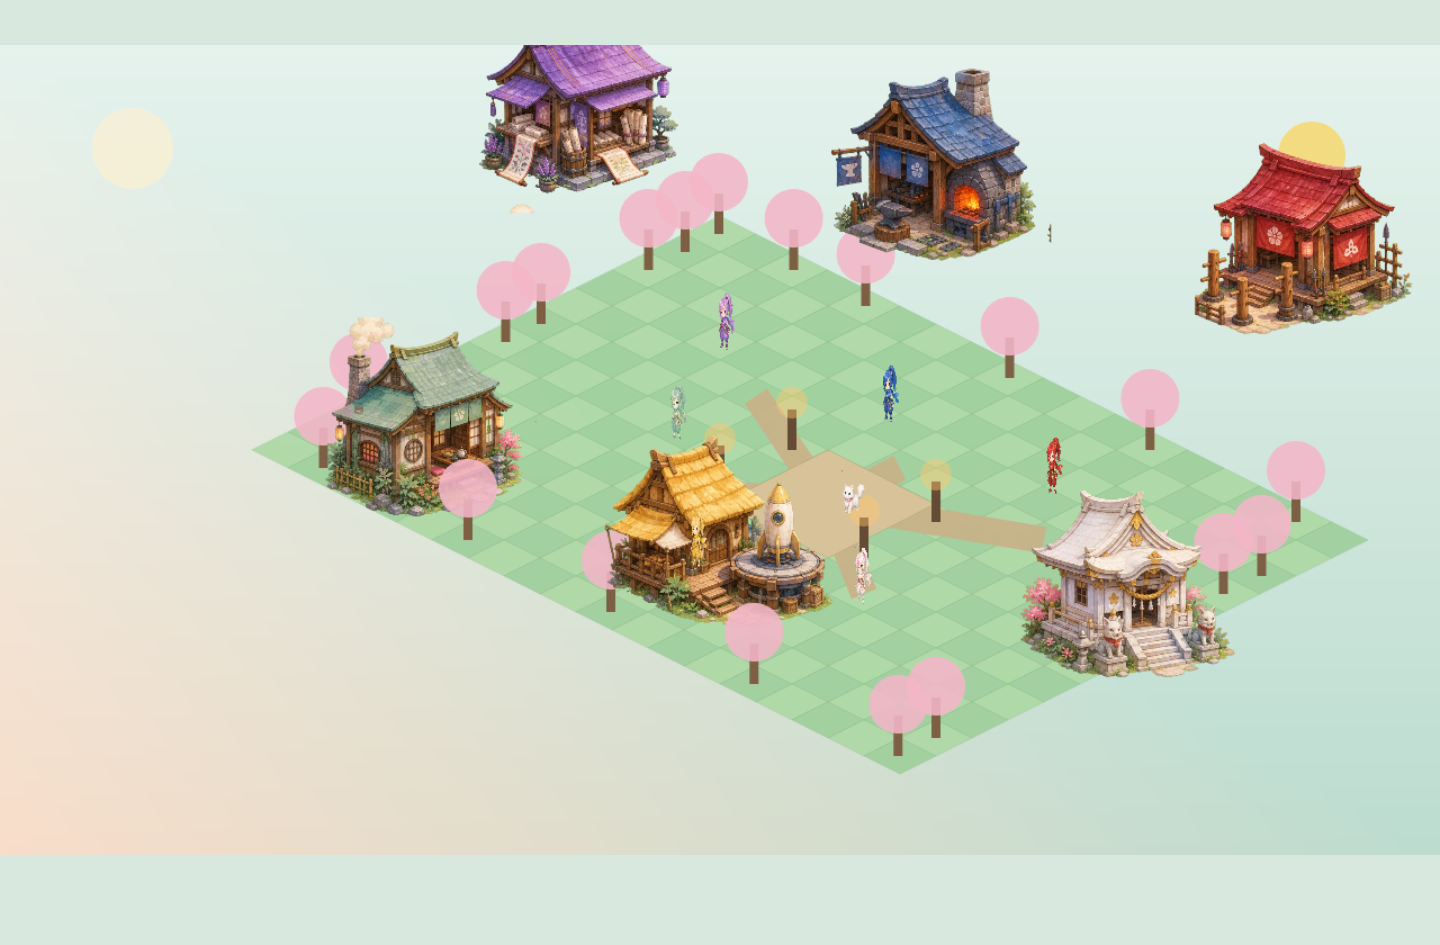
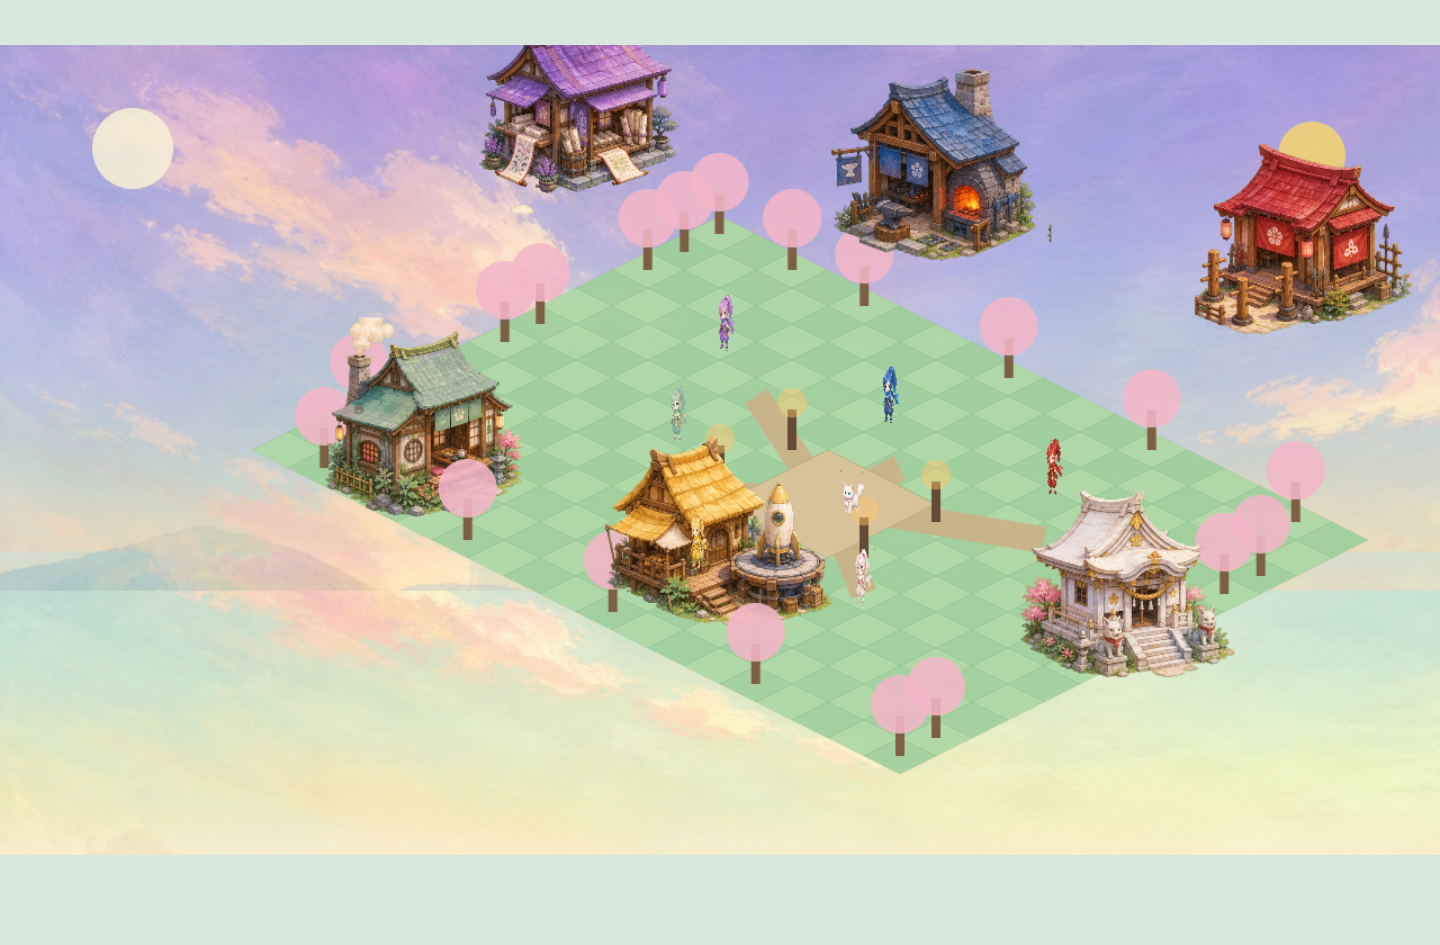
feat(village): add multi-layer parallax background and style anchor

diff --git a/public/js/village/scenes/VillageScene.js b/public/js/village/scenes/VillageScene.js
@@ -15,6 +15,7 @@ export class VillageScene extends Phaser.Scene {
     this.runLoop = { activeCount: 0, queuedCount: 0 };
     this.workerStatus = null;
     this.bridgeStatus = "connecting";
+    this.parallaxLayers = [];
   }
 
   create() {
@@ -33,13 +34,11 @@ export class VillageScene extends Phaser.Scene {
     this.dialogue.update();
     this.statusText?.setText(this.statusLabel());
     this.receiptText?.setText(this.receiptLabel());
+    this.updateParallaxLayers();
   }
 
   drawWorld() {
-    const sky = this.add.graphics().setDepth(-100);
-    sky.fillGradientStyle(0xe5f2ed, 0xe5f2ed, 0xf8ddc9, 0xbcdccf, 1);
-    sky.fillRect(0, 0, 1280, 720);
-
+    this.createParallaxBackground();
     this.add.circle(118, 92, 36, 0xf7efd5, 0.88).setDepth(-90);
     this.add.circle(1166, 98, 30, 0xf7d66b, 0.82).setDepth(-90);
 
@@ -58,6 +57,40 @@ export class VillageScene extends Phaser.Scene {
 
     for (let i = 0; i < 22; i += 1) this.drawTree(i);
     for (const tile of [{ x: 7, y: 5 }, { x: 11, y: 5 }, { x: 7, y: 7 }, { x: 11, y: 7 }]) this.drawLantern(tile);
+    this.createPetalDrift();
+  }
+
+  createParallaxBackground() {
+    this.parallaxLayers = [
+      { image: this.add.tileSprite(640, 360, 1280, 720, "bg_sky").setDepth(-130), factor: 0 },
+      { image: this.add.tileSprite(640, 250, 1280, 400, "bg_mountains").setDepth(-120).setAlpha(0.78), factor: 0.1 },
+      { image: this.add.tileSprite(640, 330, 1280, 310, "bg_forest").setDepth(-110).setAlpha(0.72), factor: 0.3 },
+      { image: this.add.tileSprite(640, 645, 1280, 150, "bg_foreground").setDepth(5200).setAlpha(0.86), factor: 0.6 }
+    ];
+    for (const layer of this.parallaxLayers) layer.image.setScrollFactor(0);
+  }
+
+  updateParallaxLayers() {
+    const time = this.time.now || 0;
+    for (const layer of this.parallaxLayers) {
+      layer.image.tilePositionX = time * 0.0025 * layer.factor;
+    }
+  }
+
+  createPetalDrift() {
+    this.petals = this.add.particles(0, 0, "petal", {
+      x: { min: -80, max: 1360 },
+      y: -20,
+      lifespan: { min: 9000, max: 15000 },
+      speedX: { min: -18, max: 34 },
+      speedY: { min: 18, max: 48 },
+      scale: { min: 0.35, max: 0.82 },
+      alpha: { start: 0.8, end: 0 },
+      rotate: { min: -180, max: 180 },
+      frequency: 380,
+      quantity: 1,
+      blendMode: "NORMAL"
+    }).setDepth(5600);
   }
 
   drawTree(index) {

diff --git a/public/js/village/scenes/PreloadScene.js b/public/js/village/scenes/PreloadScene.js
@@ -18,6 +18,11 @@ export class PreloadScene extends Phaser.Scene {
     this.load.image("characters", "/assets/village/characters/characters.png");
     this.load.image("buildings", "/assets/village/buildings/buildings.png");
     this.load.image("effects", "/assets/village/effects/effects.png");
+    this.load.image("bg_sky", "/assets/village/background/bg_sky.png");
+    this.load.image("bg_mountains", "/assets/village/background/bg_mountains.png");
+    this.load.image("bg_forest", "/assets/village/background/bg_forest.png");
+    this.load.image("bg_foreground", "/assets/village/background/bg_foreground.png");
+    this.load.image("petal", "/assets/village/particles/petal.png");
   }
 
   create() {

diff --git a/ASSETS.md b/ASSETS.md
@@ -6,6 +6,54 @@ Generated with OpenClaw image generation using `openai/gpt-image-2` on 2026-05-0
 
 Hand-painted Studio Ghibli-inspired soft pastel watercolor texture, warm storybook lighting, chibi proportions, crisp clean edges, no harsh pixels, no anime line art, no cel shading, no text, no watermark.
 
+## PR 1.5 Phase 1 Prompts
+
+Generated with the built-in image generation path and copied into the project. Dimension normalization and petal chroma-key cleanup were performed locally with Pillow.
+
+### `public/assets/village/STYLE_ANCHOR.png`
+
+```text
+Studio Ghibli hand-painted aesthetic, soft pastel watercolor palette,
+chibi proportions (head 1/3 of body), 3/4 top-down isometric perspective,
+warm storybook lighting, painterly texture with visible brush strokes,
+NO harsh pixel edges, NO cel-shading line art, NO anime-style outlines,
+soft ambient occlusion, dreamlike atmosphere.
+Reference: Spirited Away color palette, Princess Mononoke painterly texture.
+Subject: a single chibi female ninja with lavender hair standing in
+a soft grass clearing, transparent background, full body visible,
+feet on ground, neutral pose.
+```
+
+### `public/assets/village/background/bg_sky.png`
+
+```text
+Studio Ghibli hand-painted aesthetic, soft pastel watercolor palette, warm storybook lighting, painterly texture with visible brush strokes, soft ambient occlusion, dreamlike atmosphere. Wide 16:9 hand-painted background layer for a 2D kunoichi village game. Soft sky gradient from pale peach at the horizon to mint cream in the middle to soft lavender at the top, with a few wispy hand-painted clouds drifting near the upper sky. No mountains, no trees, no foreground, no characters, no text, no watermark.
+```
+
+### `public/assets/village/background/bg_mountains.png`
+
+```text
+Studio Ghibli hand-painted aesthetic, soft pastel watercolor palette, warm storybook lighting, painterly texture with visible brush strokes, soft ambient occlusion, dreamlike atmosphere. Wide horizontal background layer for a 2D kunoichi village game: distant mountain silhouettes with soft mist and painterly blue-purple distance haze, low ridge line across the bottom third, lots of empty sky-like space above ridge. No trees, no foreground, no buildings, no characters, no text, no watermark.
+```
+
+### `public/assets/village/background/bg_forest.png`
+
+```text
+Studio Ghibli hand-painted aesthetic, soft pastel watercolor palette, warm storybook lighting, painterly texture with visible brush strokes, soft ambient occlusion, dreamlike atmosphere. Wide horizontal mid-distance background layer for a 2D kunoichi village game: soft green hills and a hand-painted forest line across the lower half, slightly blurred by distance and gentle mist. Empty sky-like pastel space above the forest. No buildings, no characters, no foreground props, no text, no watermark.
+```
+
+### `public/assets/village/background/bg_foreground.png`
+
+```text
+Studio Ghibli hand-painted aesthetic, soft pastel watercolor palette, warm storybook lighting, painterly texture with visible brush strokes, soft ambient occlusion, dreamlike atmosphere. Wide horizontal foreground edge layer for a 2D kunoichi village game: detailed grass tufts, tiny wildflowers, small mossy rocks, and soft painterly soil texture along the bottom edge only. Upper two-thirds should be simple pale sky-colored empty space so it can frame the village from the bottom. No buildings, no characters, no text, no watermark.
+```
+
+### `public/assets/village/particles/petal.png`
+
+```text
+Studio Ghibli hand-painted aesthetic, soft pastel watercolor palette, warm storybook lighting, painterly texture with visible brush strokes. Single cherry blossom petal game sprite, soft pink with a subtle gradient edge, isolated centered subject, generous padding, no shadow, no text, no watermark. Render on a perfectly flat solid #00ff00 chroma-key background for transparent background removal. Do not use #00ff00 anywhere in the petal.
+```
+
 ## `public/assets/village/raw/characters-keyed.png`
 
 Create a game sprite atlas on a perfectly flat solid #00ff00 chroma-key background for background removal. The background must be one uniform color with no shadows, gradients, texture, reflections, floor plane, or lighting variation. Keep every subject fully separated from the background with crisp edges and generous padding. Do not use #00ff00 anywhere in the subjects. No cast shadow, no contact shadow, no reflection, no text, no watermark.